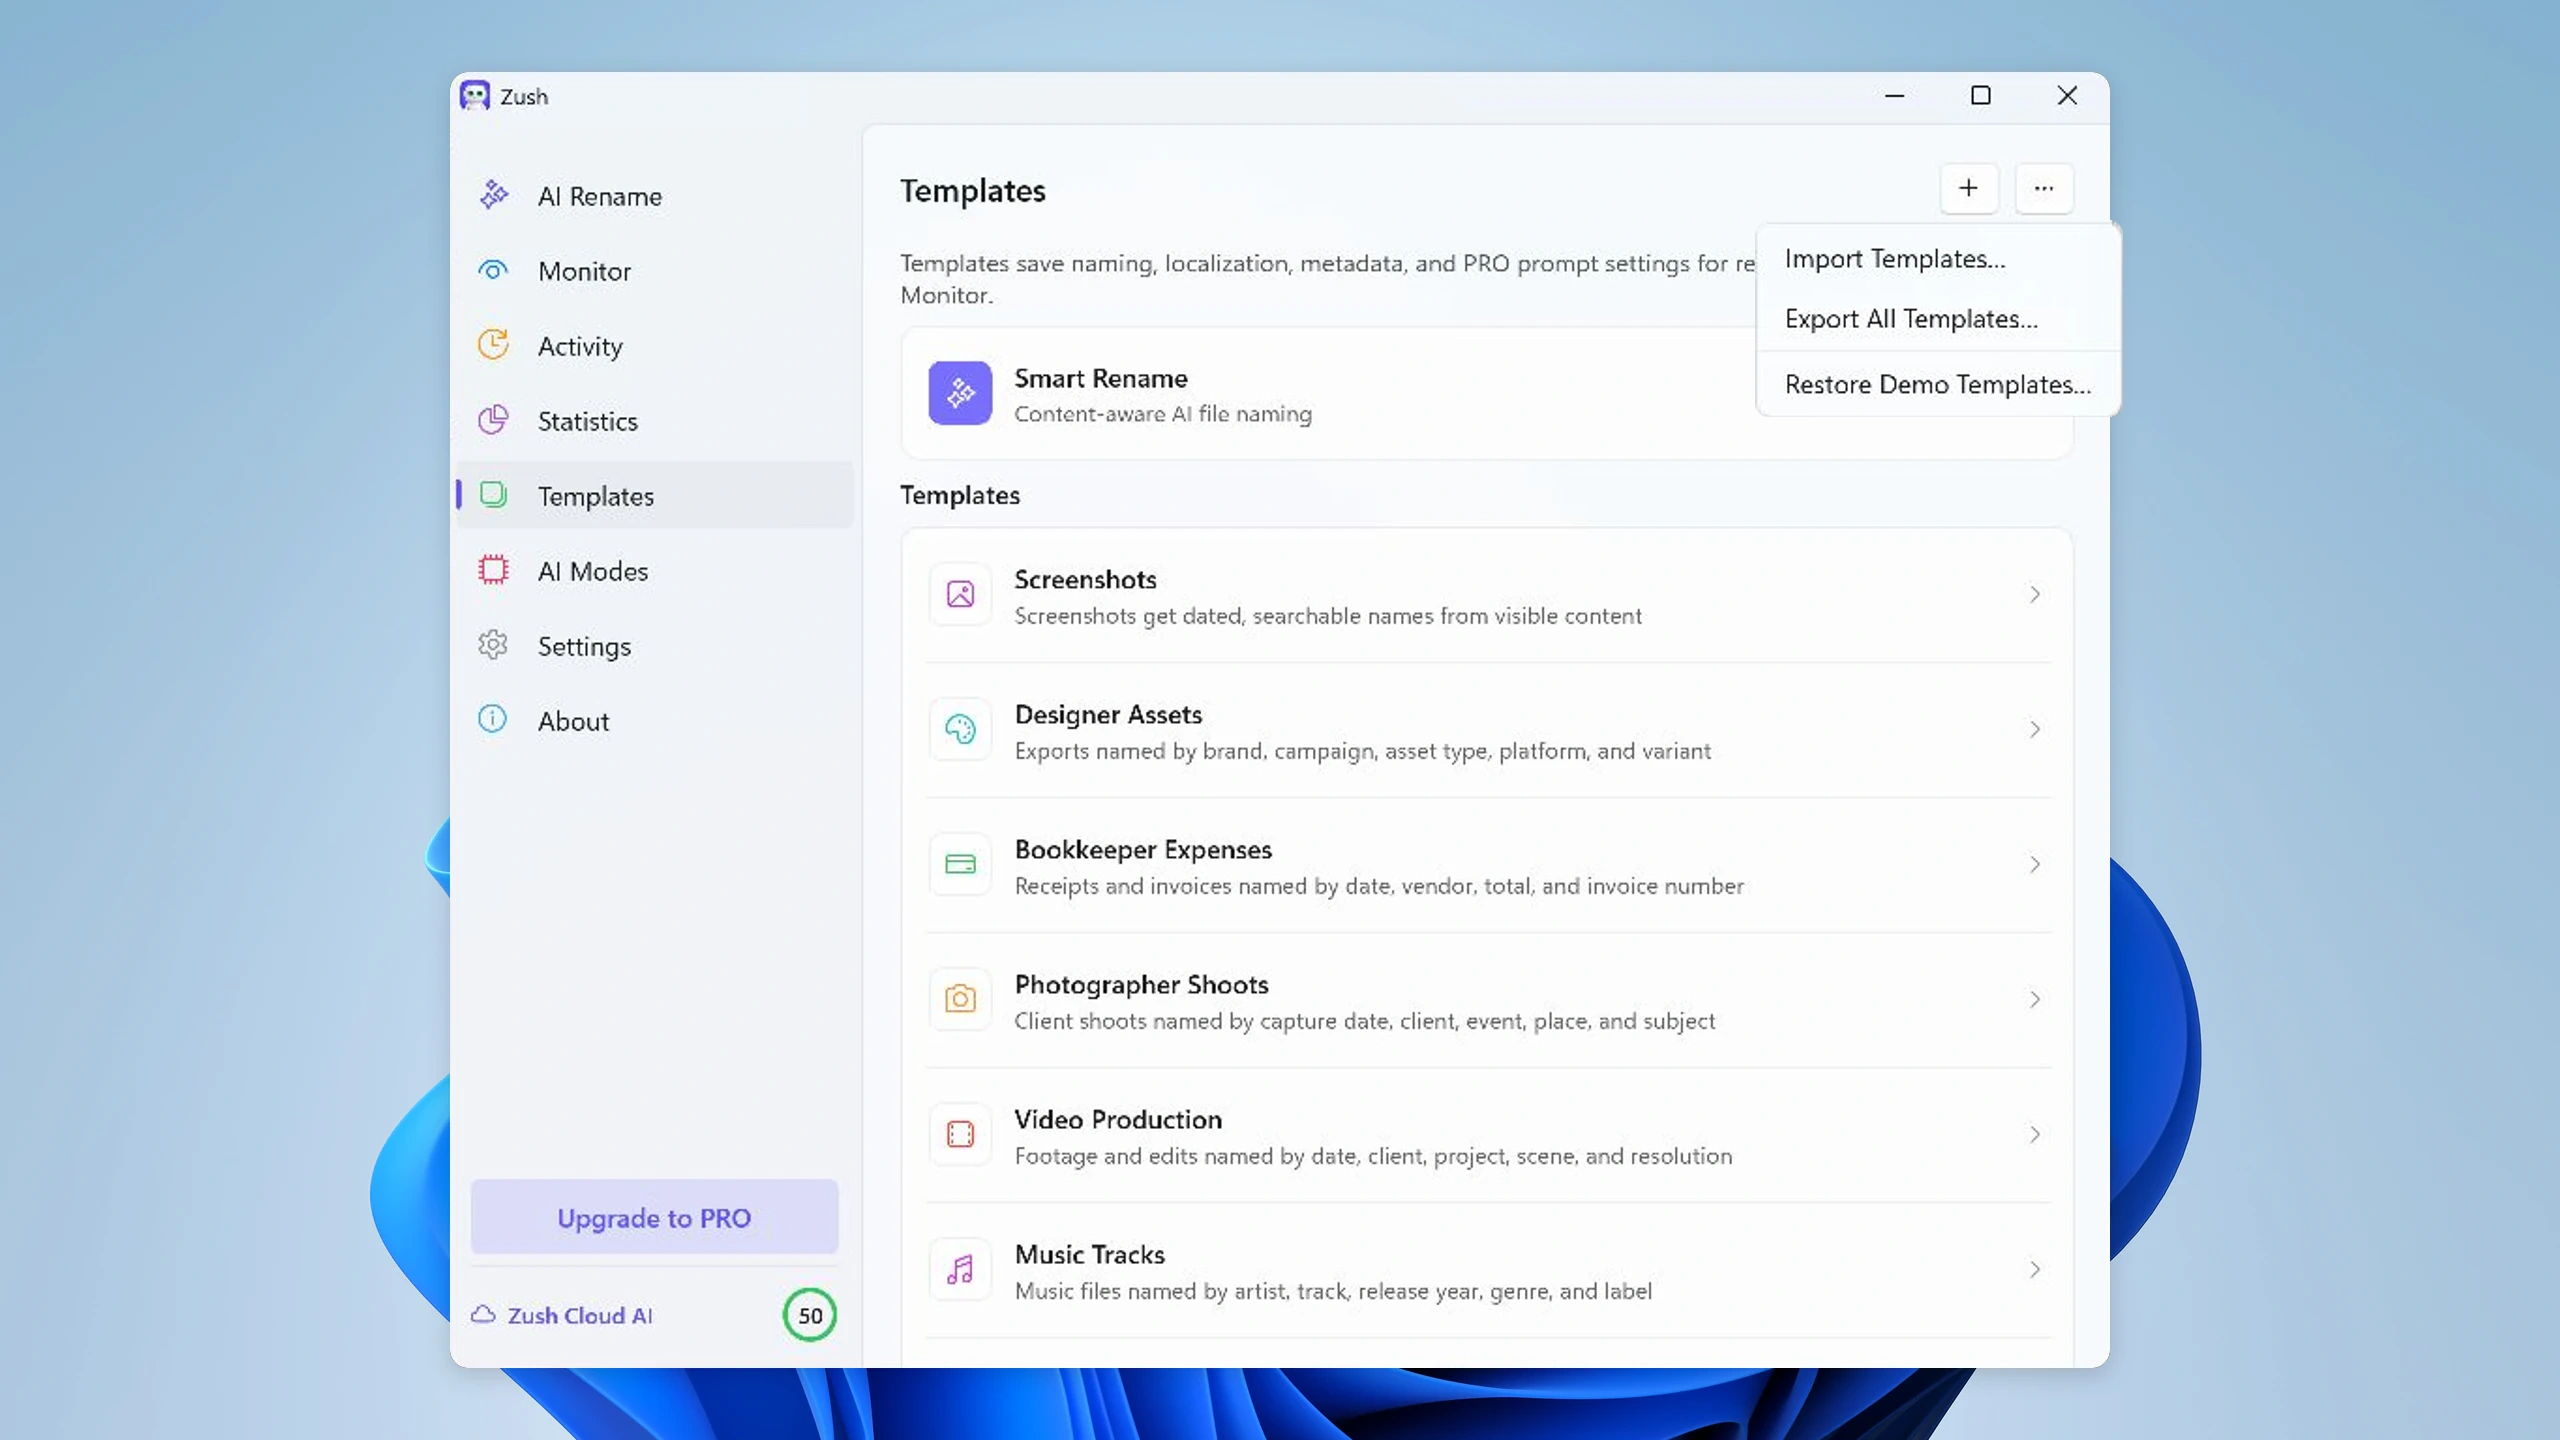
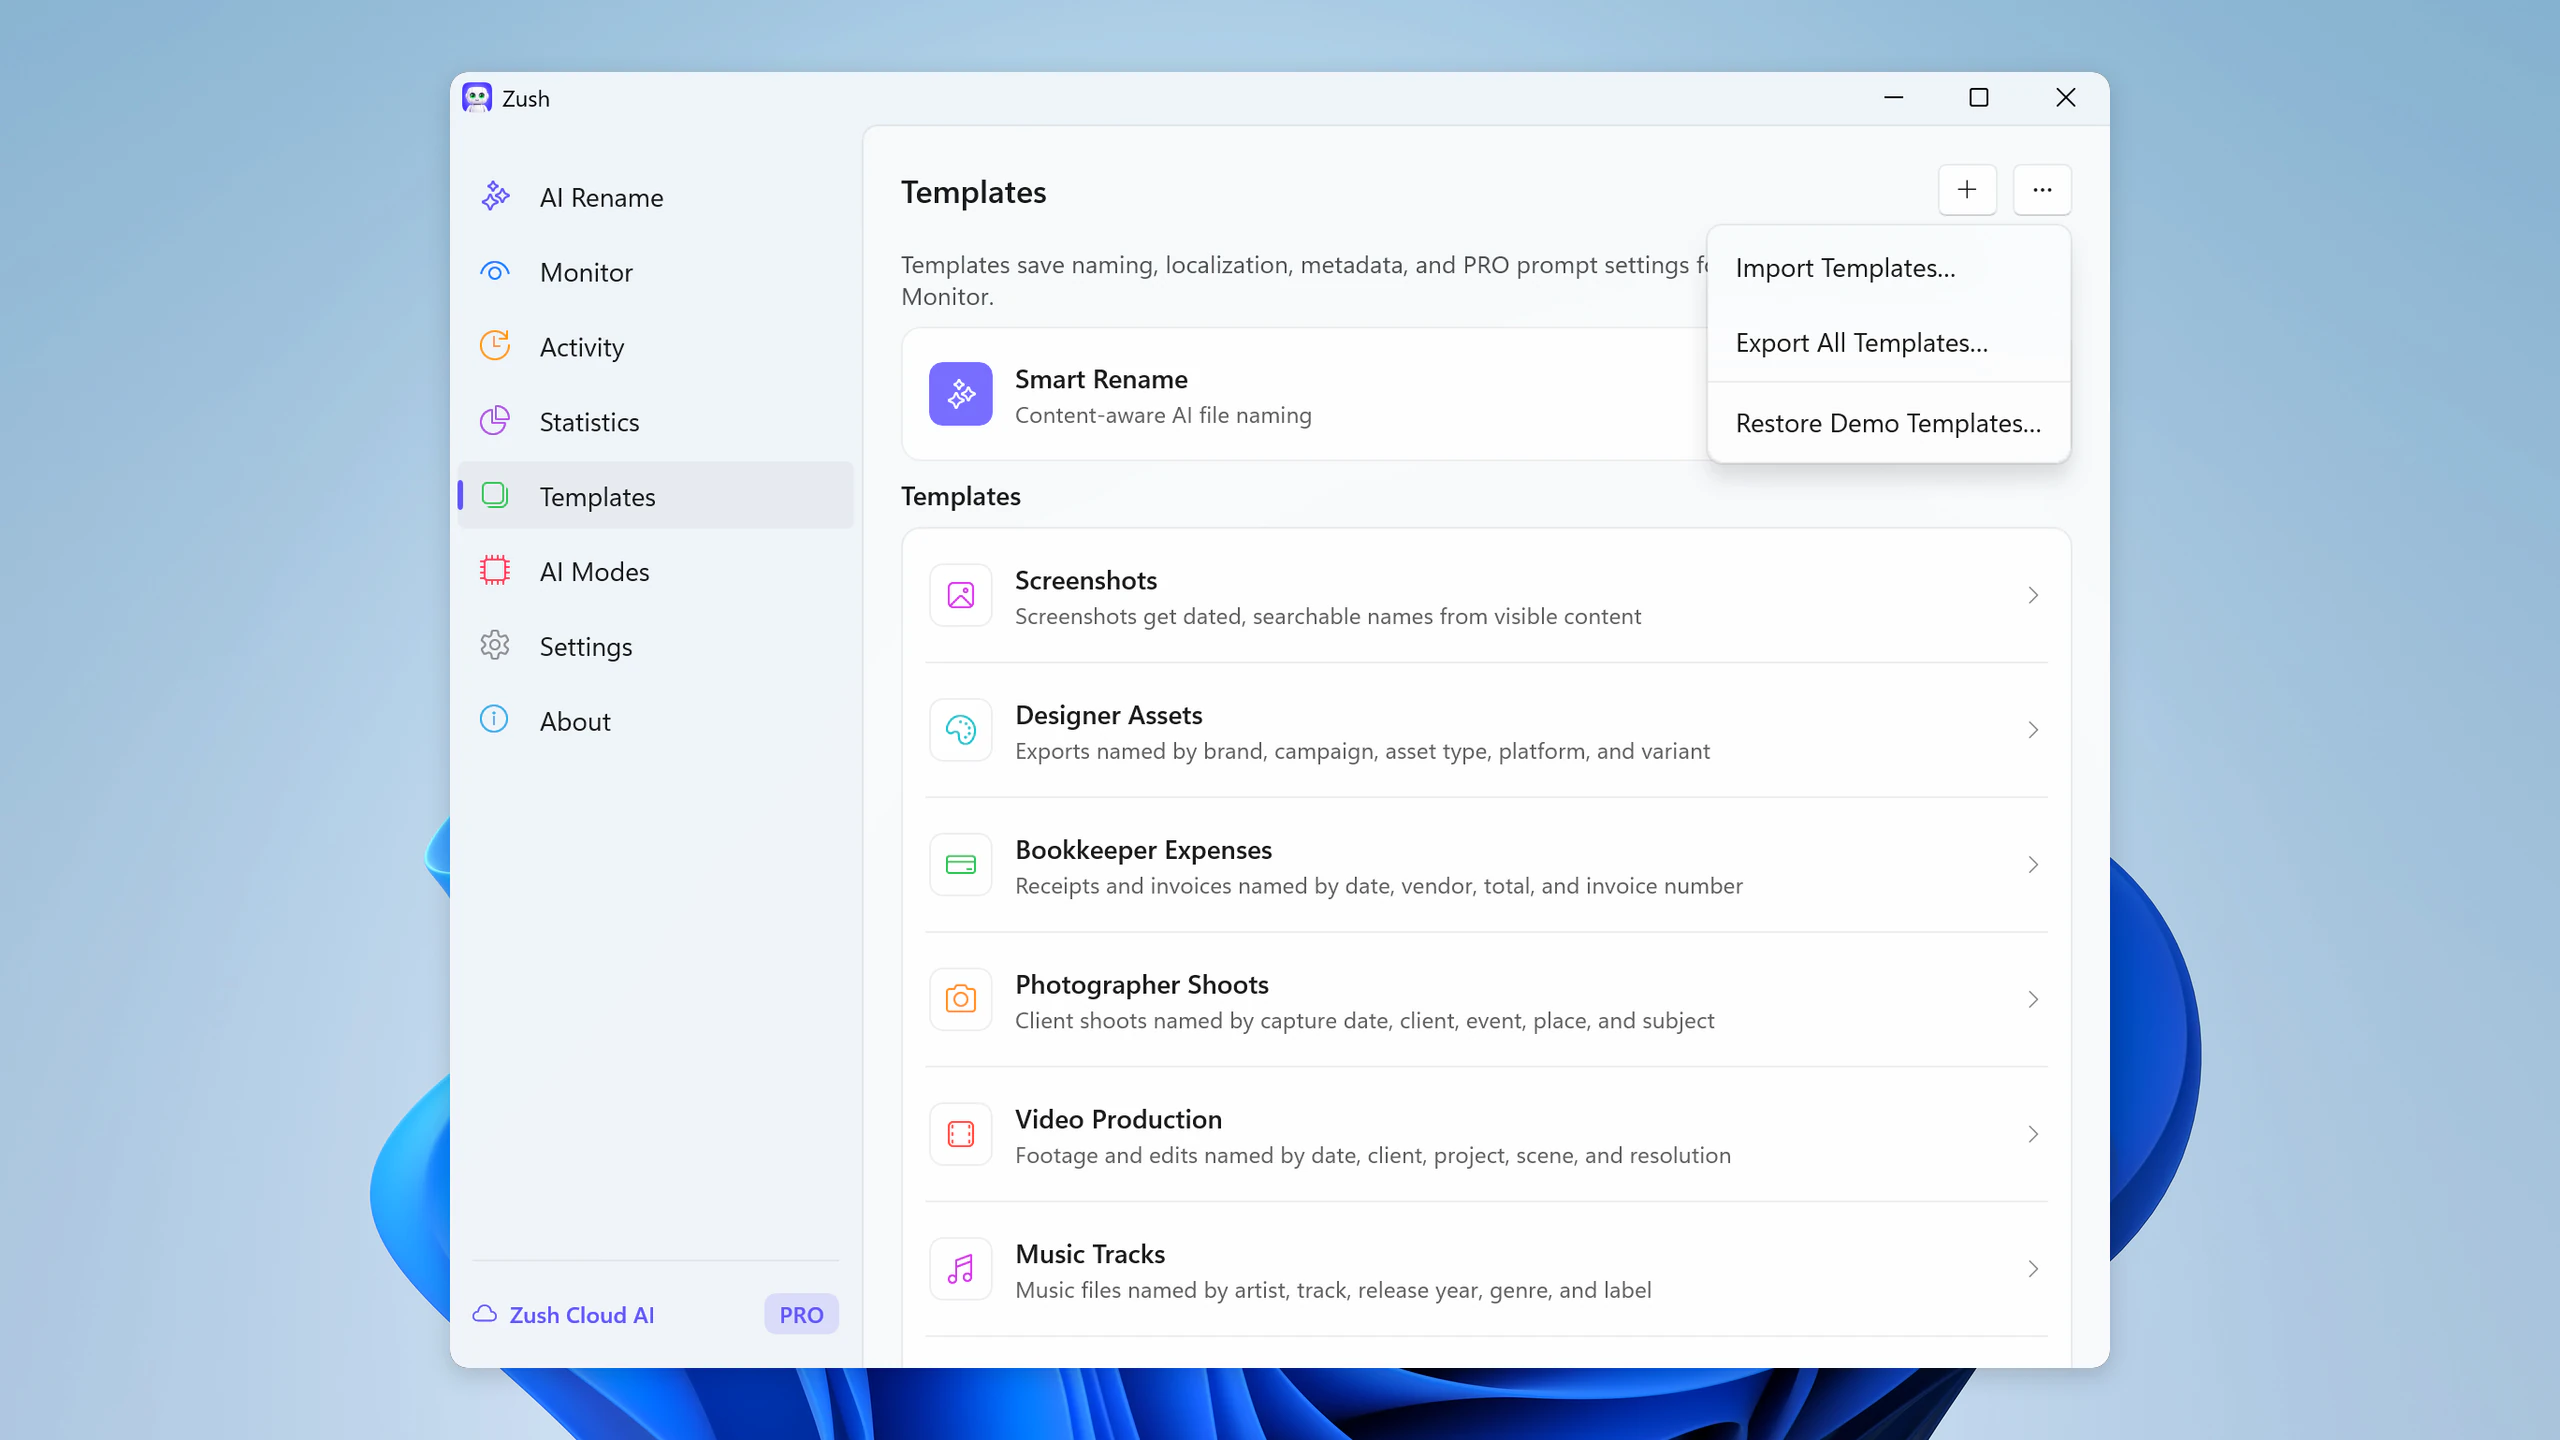
Recapture Windows folder sorting and template transfer screenshots [skip ci]
- Capture the WinUI window per-monitor DPI aware, so scaled displays produce
  physical-pixel screenshots instead of blurry upscaled logical copies.
- Expand the Template row for the folder-sorting scene and show all three
  planned folders; template-transfer now shows the Import / Export menu in the
  default-size window.
- Document the native ARM64 capture and responsive-size refresh.

diff --git a/scripts/promo/README.md b/scripts/promo/README.md
@@ -33,7 +33,16 @@ pnpm promo:windows-feature-screenshots
 
 The Windows capture path is intentionally locked to the Debug app build. The app-side promo fixture is Debug-only and forces the UI into a Pro state for screenshots. The script also overrides Supabase settings to a local offline endpoint by default, so capture runs cannot register installs or usage in the production database.
 
-The capture keeps the app window at its own default size. Landing and Store assets are created by scaling that captured window into the output canvas, not by resizing the live app window.
+The capture keeps the app window at its own default size. Landing and Store assets are created by scaling that captured window into the output canvas, not by resizing the live app window. The capture is per-monitor DPI aware, so on a scaled display (for example 200%) the window is captured at its physical pixel size instead of a blurry logical-size copy.
+
+On the ARM64 development VM, build the app natively and pass it explicitly instead of the default `win-x64` build:
+
+```powershell
+pnpm promo:windows-feature-screenshots --only=folder-sorting,template-transfer --skip-build --app-exe="..\zush-windows\src\Zush.Windows.App\bin\arm64\Debug\net8.0-windows10.0.19041.0\win-arm64\Zush.Windows.App.exe"
+node scripts/promo/generate-showcase-responsive-assets.mjs --output-dir=public/images/showcase/windows --only=folder-sorting,template-transfer
+```
+
+The second command refreshes the responsive landing sizes for the recaptured Windows scenes. A main Windows release submits the Store set from `../zush-assets/Microsoft Store/Windows` automatically.
 
 If `../zush-assets/#test files/Files` is unavailable, the script falls back to `zush-windows/test-assets/Files` and seeds any missing promo image/video files from local demo assets so thumbnails stay real instead of generic file icons.
 
